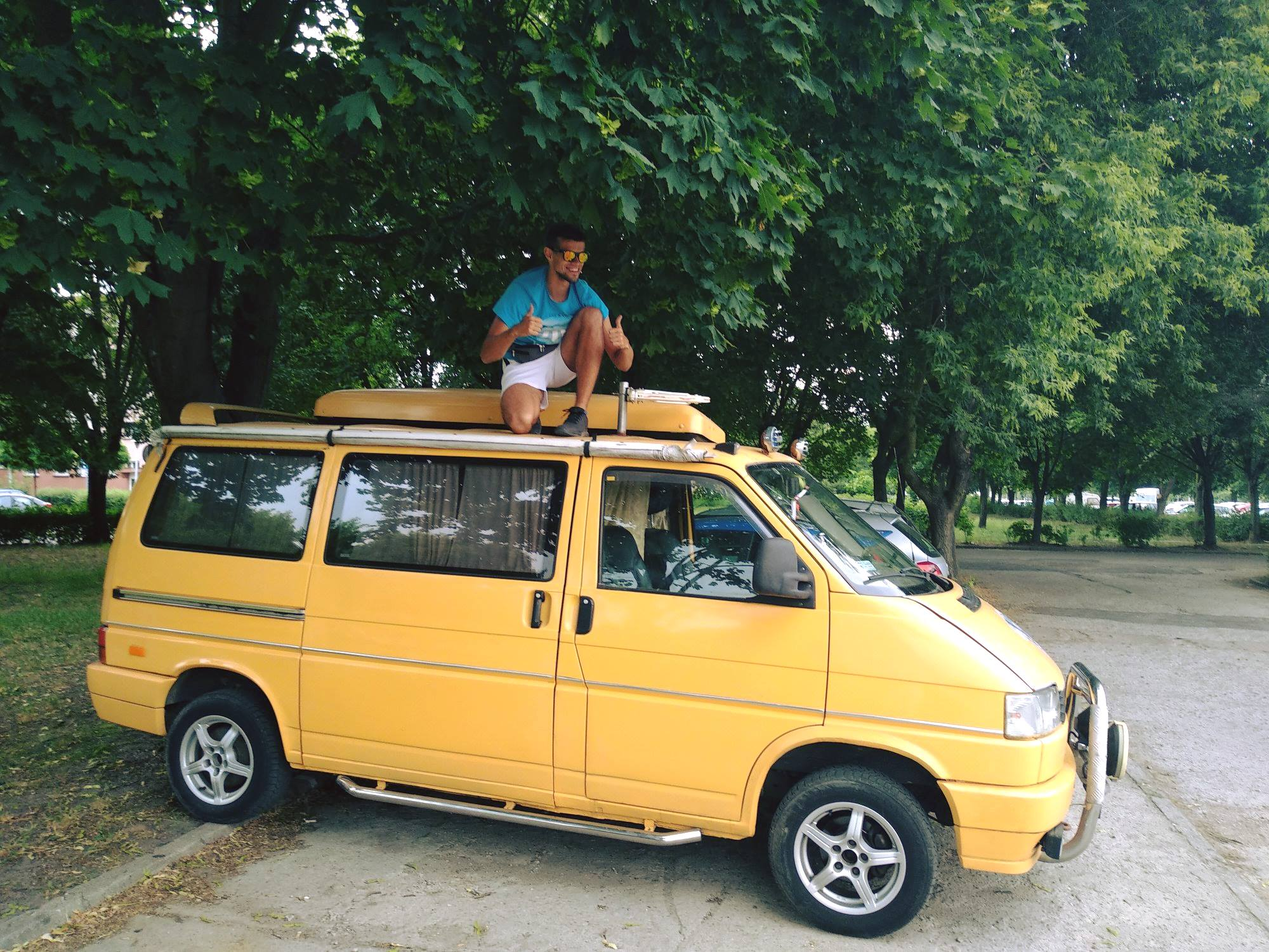
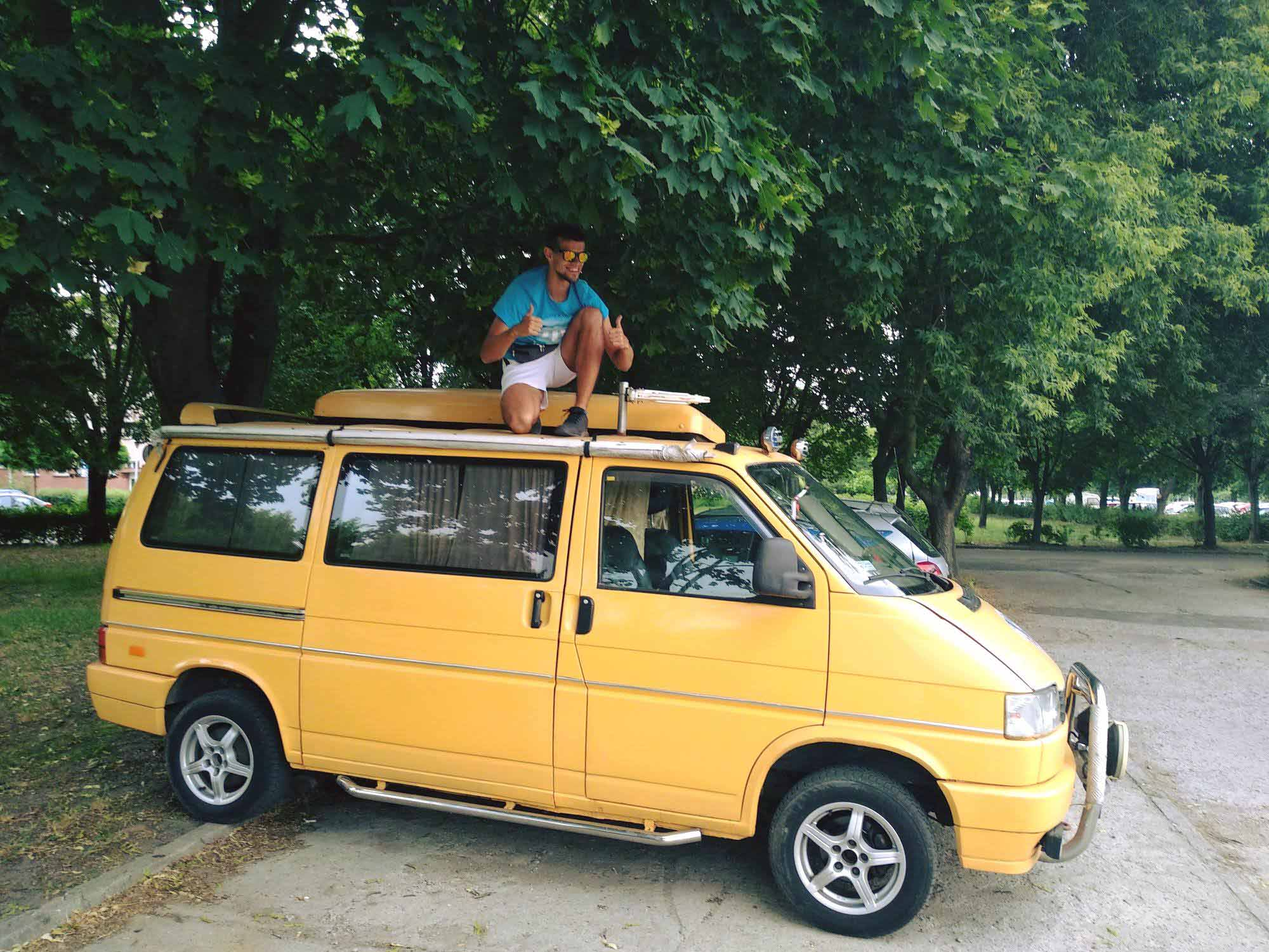
optymalizacja obrazkow

diff --git a/src/templates/main-page.js b/src/templates/main-page.js
@@ -14,8 +14,8 @@ export const MainPageTemplate = ({
             <div className="jumbo__title">{jumbotrone.title}</div>
             <div className="jumbo__desc">{jumbotrone.description}</div>
             <div className="jumbo__links links">
-                <a className="links__yt" href="http://www.youtube.pl"><img alt="YT logo" src={yt} /></a>
-                <a className="links__fb" href="http://www.facebook.pl"><img alt="FB logo" src={fb} /></a>
+                <a className="links__yt" href="https://www.youtube.com/channel/UCYkgb3qAj6vQ9bgF_Eitvdg"><img alt="YT logo" src={yt} /></a>
+                <a className="links__fb" href="https://www.facebook.com/ZdrowyBuspl/"><img alt="FB logo" src={fb} /></a>
             </div>
         </div>
         <div className="main_body component_body">
@@ -41,7 +41,7 @@ export const MainPageTemplate = ({
                 <div className="youtube-video__wrapper">
                     <iframe
                         className="youtube-video__iframe"
-                        src="https://www.youtube.com/embed/hmXjyOWi6nc?rel=0&amp;showinfo=1"
+                        src="https://www.youtube.com/embed/KUEZyt4L-ow1?rel=0&amp;showinfo=1"
                         frameBorder="0"
                         allowFullScreen="true"
                         title="ZdrowyBus"

diff --git a/src/templates/contact.js b/src/templates/contact.js
@@ -15,8 +15,8 @@ export const ContactPageTemplate = ({
             </section>
             <section className="links">
                 <div className="contact_links">
-                    <a className="links__yt" href="http://www.youtube.pl"><img alt="YT logo" src={yt} /></a>
-                    <a className="links__fb" href="http://www.facebook.pl"><img alt="FB logo" src={fb} /></a>        
+                    <a className="links__yt" href="https://www.youtube.com/channel/UCYkgb3qAj6vQ9bgF_Eitvdg"><img alt="YT logo" src={yt} /></a>
+                    <a className="links__fb" href="https://www.facebook.com/ZdrowyBuspl/"><img alt="FB logo" src={fb} /></a>        
                 </div>
             </section>
             <section className="second-field text-box">

diff --git a/src/styles/landing.scss b/src/styles/landing.scss
@@ -43,6 +43,7 @@
         &--enter {
             @include enter;
             a {
+                color: white;
                 display: inline-block;
                 width: 100%;
             }

diff --git a/src/styles/navbar.scss b/src/styles/navbar.scss
@@ -43,6 +43,7 @@
             background: $green;
         }
         a {
+            color: white;
             width: 100%;
             line-height: 50px;
             text-align: center;
